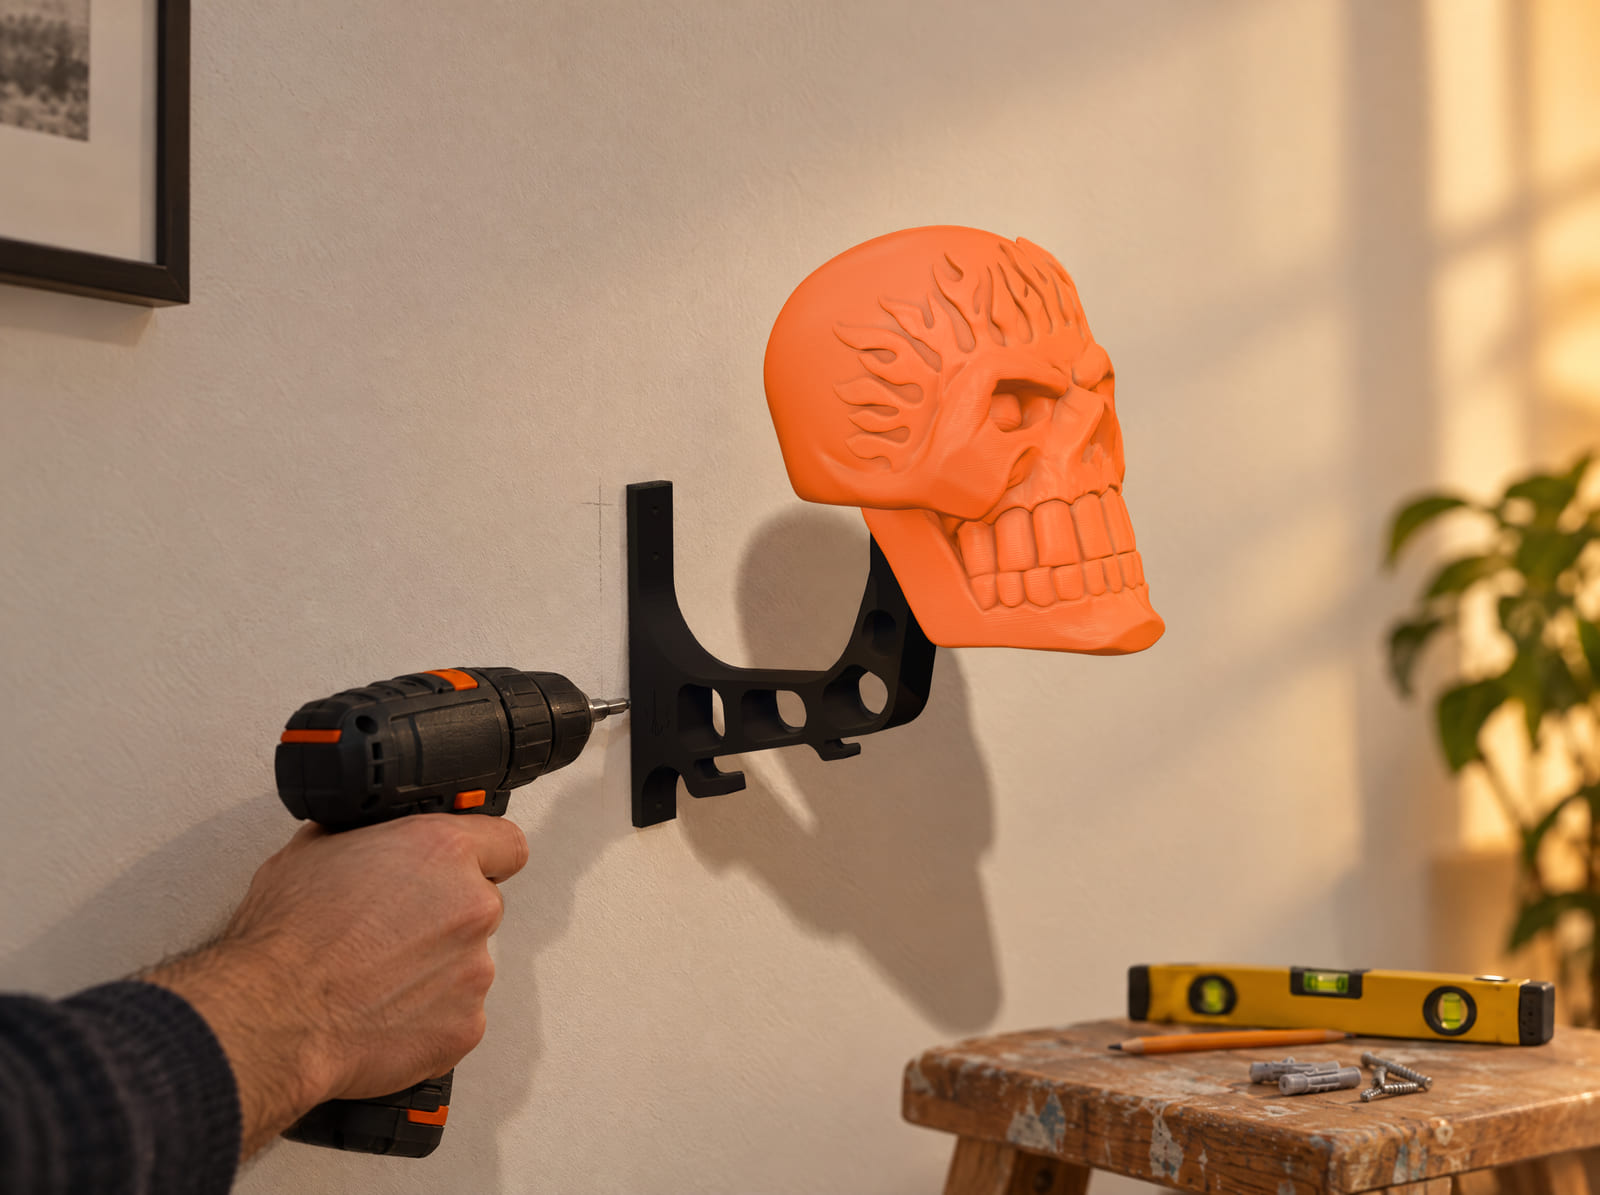
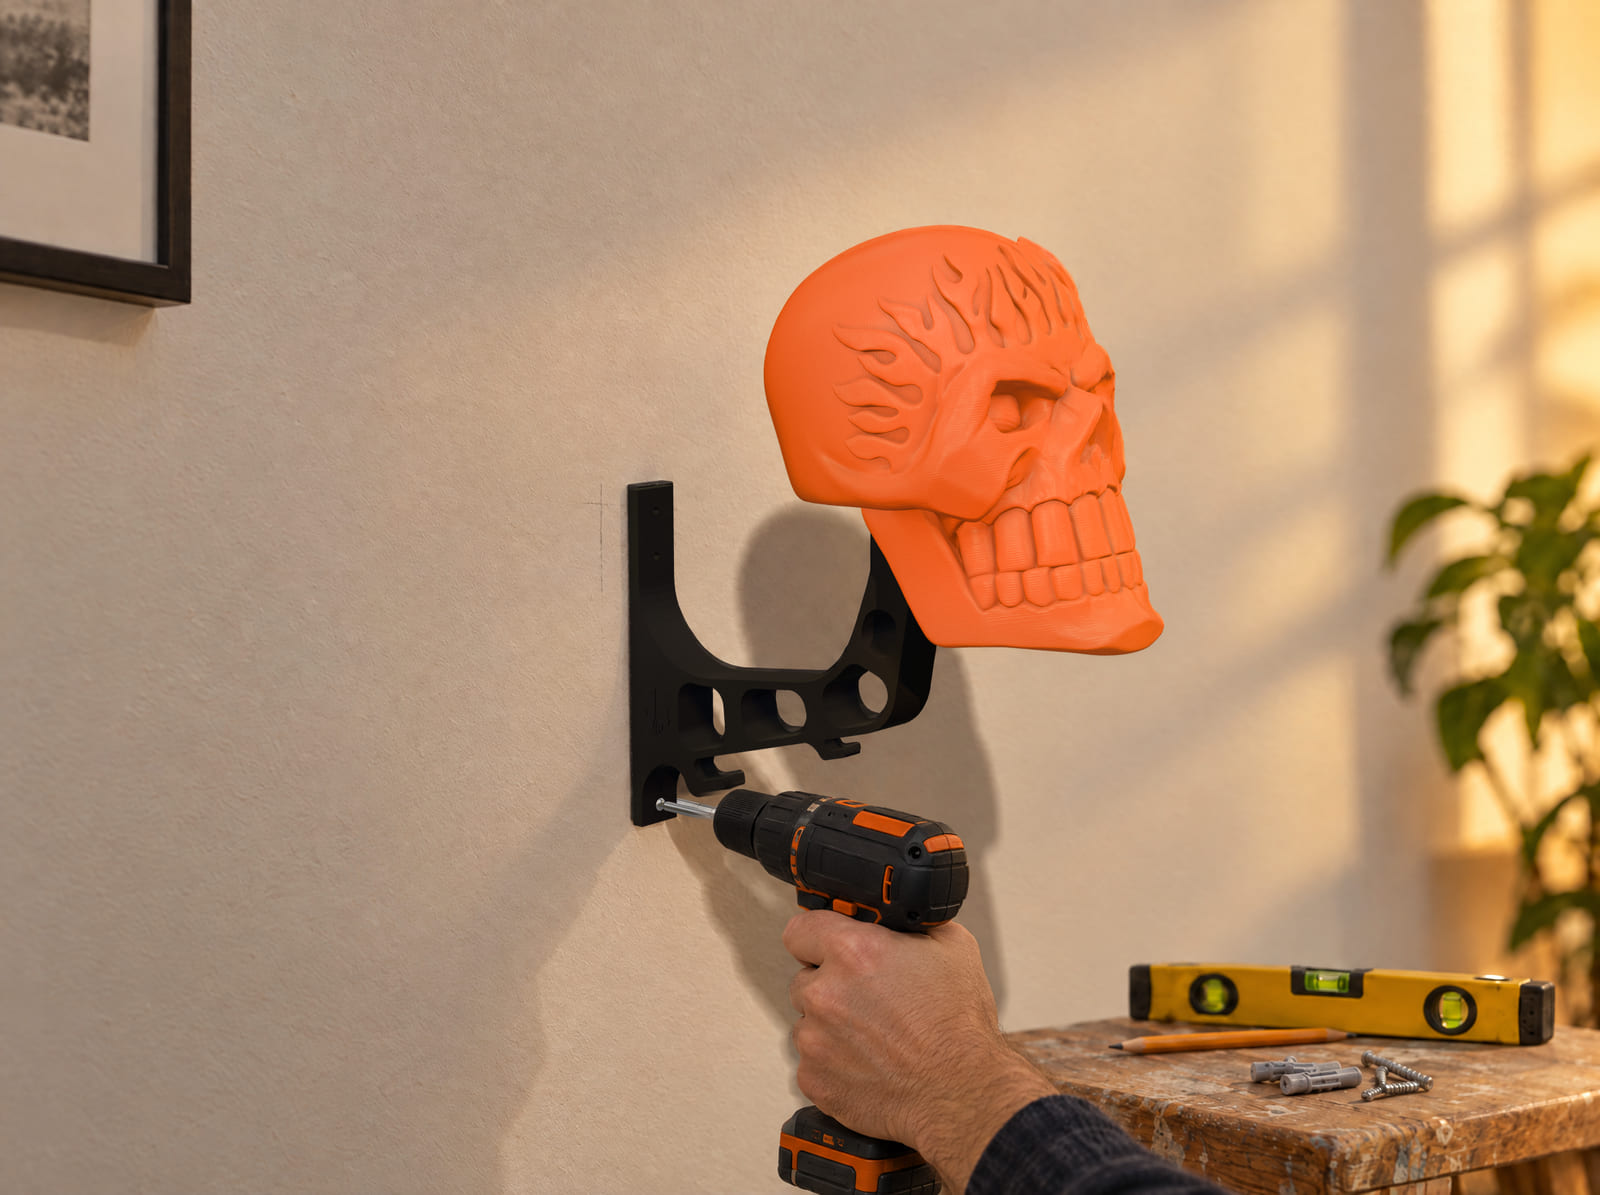
design: Why it slaps tiles are tall enough to see the photographs
Rows go from 220px to 320px on desktop, tablet and phone tiles grow too, and
the shade behind the words stops well short of the mount. The installation
picture now drives a screw into the wall plate's foot hole: screw, bit and
the drill's line are modelled with the mount, so the bit is in the real hole.

diff --git a/components/marketing/bento.tsx b/components/marketing/bento.tsx
@@ -9,7 +9,8 @@ import { cn } from "@/lib/utils"
  * Five reasons across a 4x3 grid, which fills exactly: the hero takes 2x2, two
  * tiles sit beside it, a wider one takes the rest of that row, and the
  * accessories band runs the full width underneath. Below `sm` every tile is
- * full width, so no photograph is squeezed into half a phone.
+ * full width, so no photograph is squeezed into half a phone. The rows are tall
+ * (320px) because the tiles are photographs: at 220px the words covered them.
  *
  * Every photograph shows the real mount: the skull and the bracket in them are
  * renders of the files the mounts are printed from, joined as they ship, laid
@@ -24,7 +25,7 @@ export function Bento() {
       </SectionLabel>
       <SectionHeading className="mb-10 sm:mb-12">Made for a reason</SectionHeading>
 
-      <div className="grid grid-cols-2 gap-4 lg:grid-cols-4 lg:grid-rows-[repeat(3,220px)]">
+      <div className="grid grid-cols-2 gap-4 lg:grid-cols-4 lg:grid-rows-[repeat(3,320px)]">
         <Reason
           hero
           title="Store in style"
@@ -32,7 +33,7 @@ export function Bento() {
           alt="A SKELMET mount on a garage wall at night, a helmet on the skull and a jacket, gloves and keys on its hooks"
           sizes="(min-width: 1024px) 50vw, 100vw"
           focus="object-[72%_10%]"
-          className="col-span-2 min-h-[300px] sm:min-h-[340px] lg:row-span-2 lg:min-h-0"
+          className="col-span-2 min-h-[380px] sm:min-h-[440px] lg:row-span-2 lg:min-h-0"
         >
           Bedroom, garage or living room: wherever you mount it, it catches eyes, commands attention
           and makes a statement.
@@ -43,10 +44,10 @@ export function Bento() {
           icon={Wrench}
           iconClass="text-acid"
           image="/product/why-install.jpg"
-          alt="A hand driving the last screw into the mount's wall plate with a cordless drill"
+          alt="A hand driving a screw into the hole at the foot of the mount's wall plate with a cordless drill"
           sizes="(min-width: 1024px) 25vw, (min-width: 640px) 50vw, 100vw"
           focus="object-[56%_30%]"
-          className="col-span-2 min-h-[260px] sm:col-span-1 lg:min-h-0"
+          className="col-span-2 min-h-[340px] sm:col-span-1 sm:min-h-[360px] lg:min-h-0"
         >
           Mark, drill, plug, screw. Four steps with a drill and the fixings in the box.
         </Reason>
@@ -59,7 +60,7 @@ export function Bento() {
           alt="A glossy black helmet on the skull mount, with a jacket, gloves and keys on its hooks, clear of the floor"
           sizes="(min-width: 1024px) 25vw, (min-width: 640px) 50vw, 100vw"
           focus="object-[50%_10%]"
-          className="col-span-2 min-h-[260px] sm:col-span-1 lg:min-h-0"
+          className="col-span-2 min-h-[340px] sm:col-span-1 sm:min-h-[360px] lg:min-h-0"
         >
           Floors and shelves wear your helmet down over time with dust, scratches, and scuffs. A
           wall mount doesn&apos;t.
@@ -74,7 +75,7 @@ export function Bento() {
           alt="A helmet with its visor up airing on the mount beside an open window, a jacket, gloves and keys below it"
           sizes="(min-width: 1024px) 50vw, 100vw"
           focus="object-[88%_20%] sm:object-[100%_5%]"
-          className="col-span-2 min-h-[300px] sm:min-h-[240px] lg:min-h-0"
+          className="col-span-2 min-h-[360px] sm:min-h-[320px] lg:min-h-0"
         >
           Sweat builds up in padding if the helmet is left closed up. Mounting keeps the helmet
           open, so it dries faster and stays fresh.
@@ -89,7 +90,7 @@ export function Bento() {
           alt="Riding gloves and a key hanging from the hooks under the mount's arm"
           sizes="(min-width: 1280px) calc(100vw - 112px), (min-width: 640px) calc(100vw - 64px), calc(100vw - 40px)"
           focus="object-[84%_30%] sm:object-[100%_32%]"
-          className="col-span-2 min-h-[300px] sm:min-h-[220px] lg:col-span-4 lg:min-h-0"
+          className="col-span-2 min-h-[360px] sm:min-h-[320px] lg:col-span-4 lg:min-h-0"
         >
           Hooks on the mount arm hold your riding gloves, riding jacket and keys. Let this be the
           one-stop for all your riding gear.
@@ -99,11 +100,14 @@ export function Bento() {
   )
 }
 
-/** Shade under the words: from the bottom, or (a `side` tile from `sm` up) from the left. */
+/**
+ * Shade under the words only: from the bottom, or (a `side` tile from `sm` up)
+ * from the left. It ends well short of the mount, so the photograph stays clear.
+ */
 const SHADE_BOTTOM =
-  "bg-[linear-gradient(0deg,rgb(7_6_10_/_0.96)_8%,rgb(7_6_10_/_0.62)_42%,rgb(7_6_10_/_0.08)_78%)]"
+  "bg-[linear-gradient(0deg,rgb(7_6_10_/_0.94)_0%,rgb(7_6_10_/_0.78)_24%,rgb(7_6_10_/_0.3)_46%,rgb(7_6_10_/_0)_64%)]"
 const SHADE_SIDE =
-  "sm:bg-[linear-gradient(90deg,rgb(7_6_10_/_0.94)_4%,rgb(7_6_10_/_0.6)_46%,rgb(7_6_10_/_0.04)_80%)]"
+  "sm:bg-[linear-gradient(90deg,rgb(7_6_10_/_0.92)_0%,rgb(7_6_10_/_0.72)_30%,rgb(7_6_10_/_0.2)_52%,rgb(7_6_10_/_0)_66%)]"
 
 function Reason({
   title,
